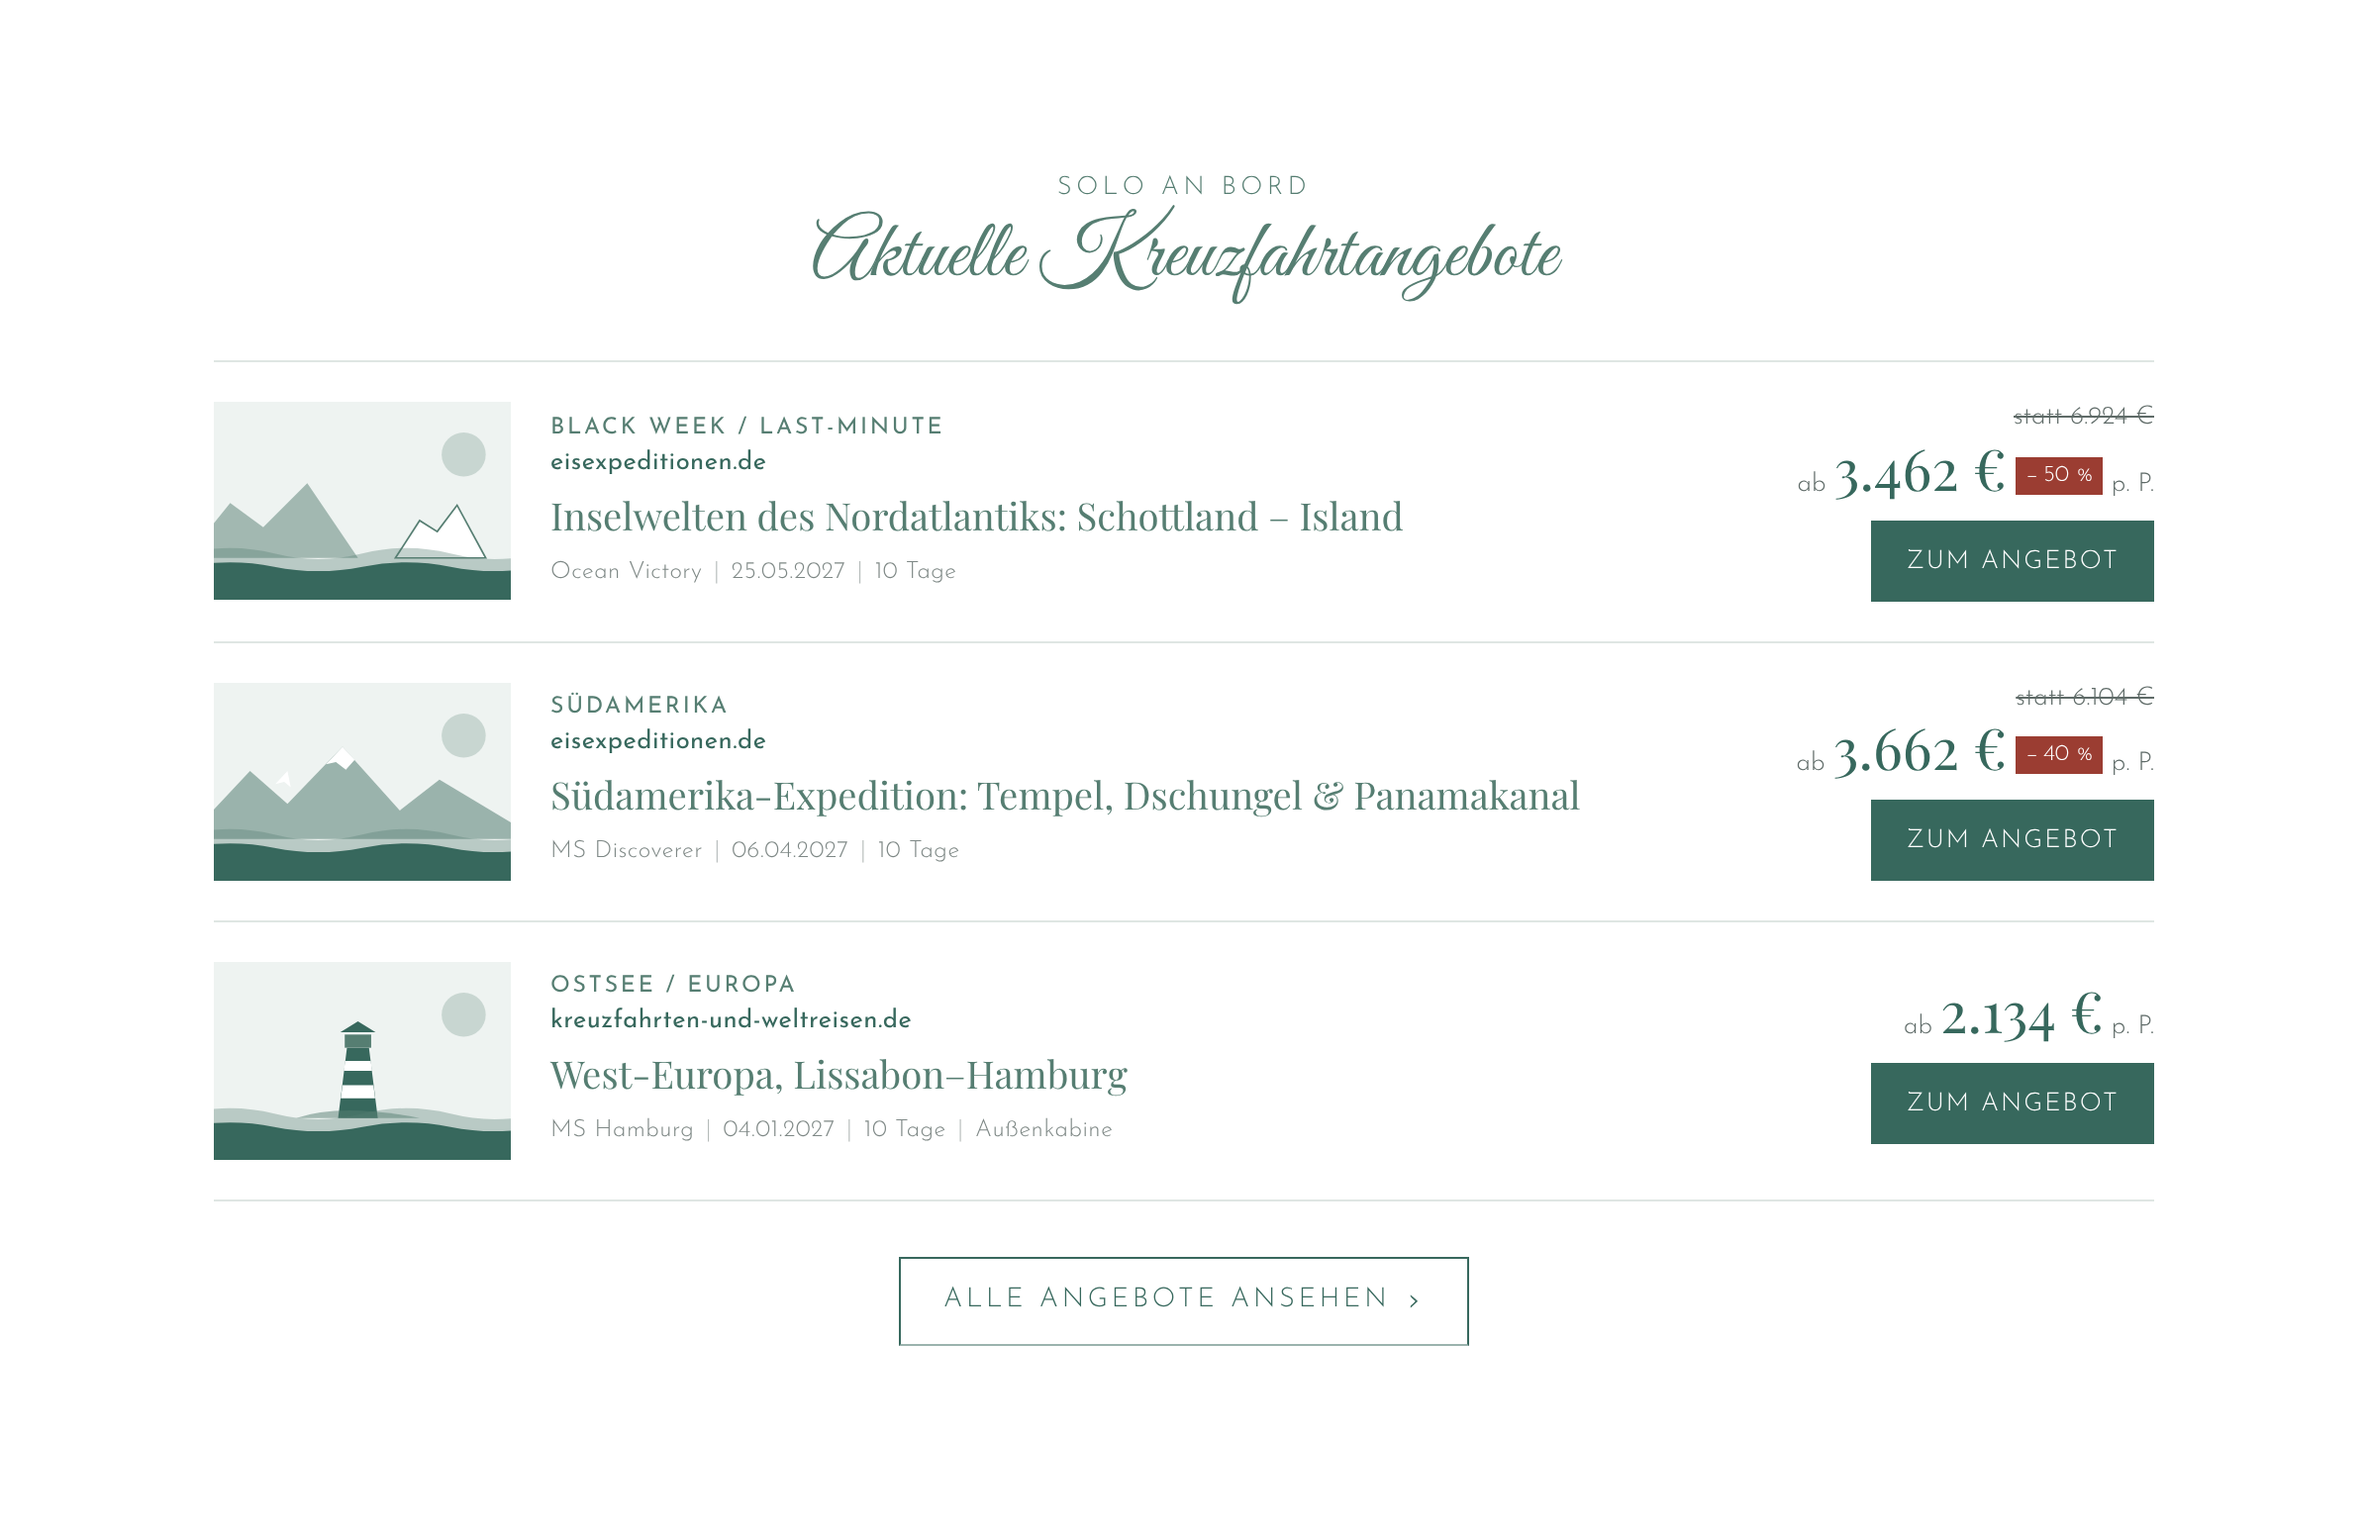
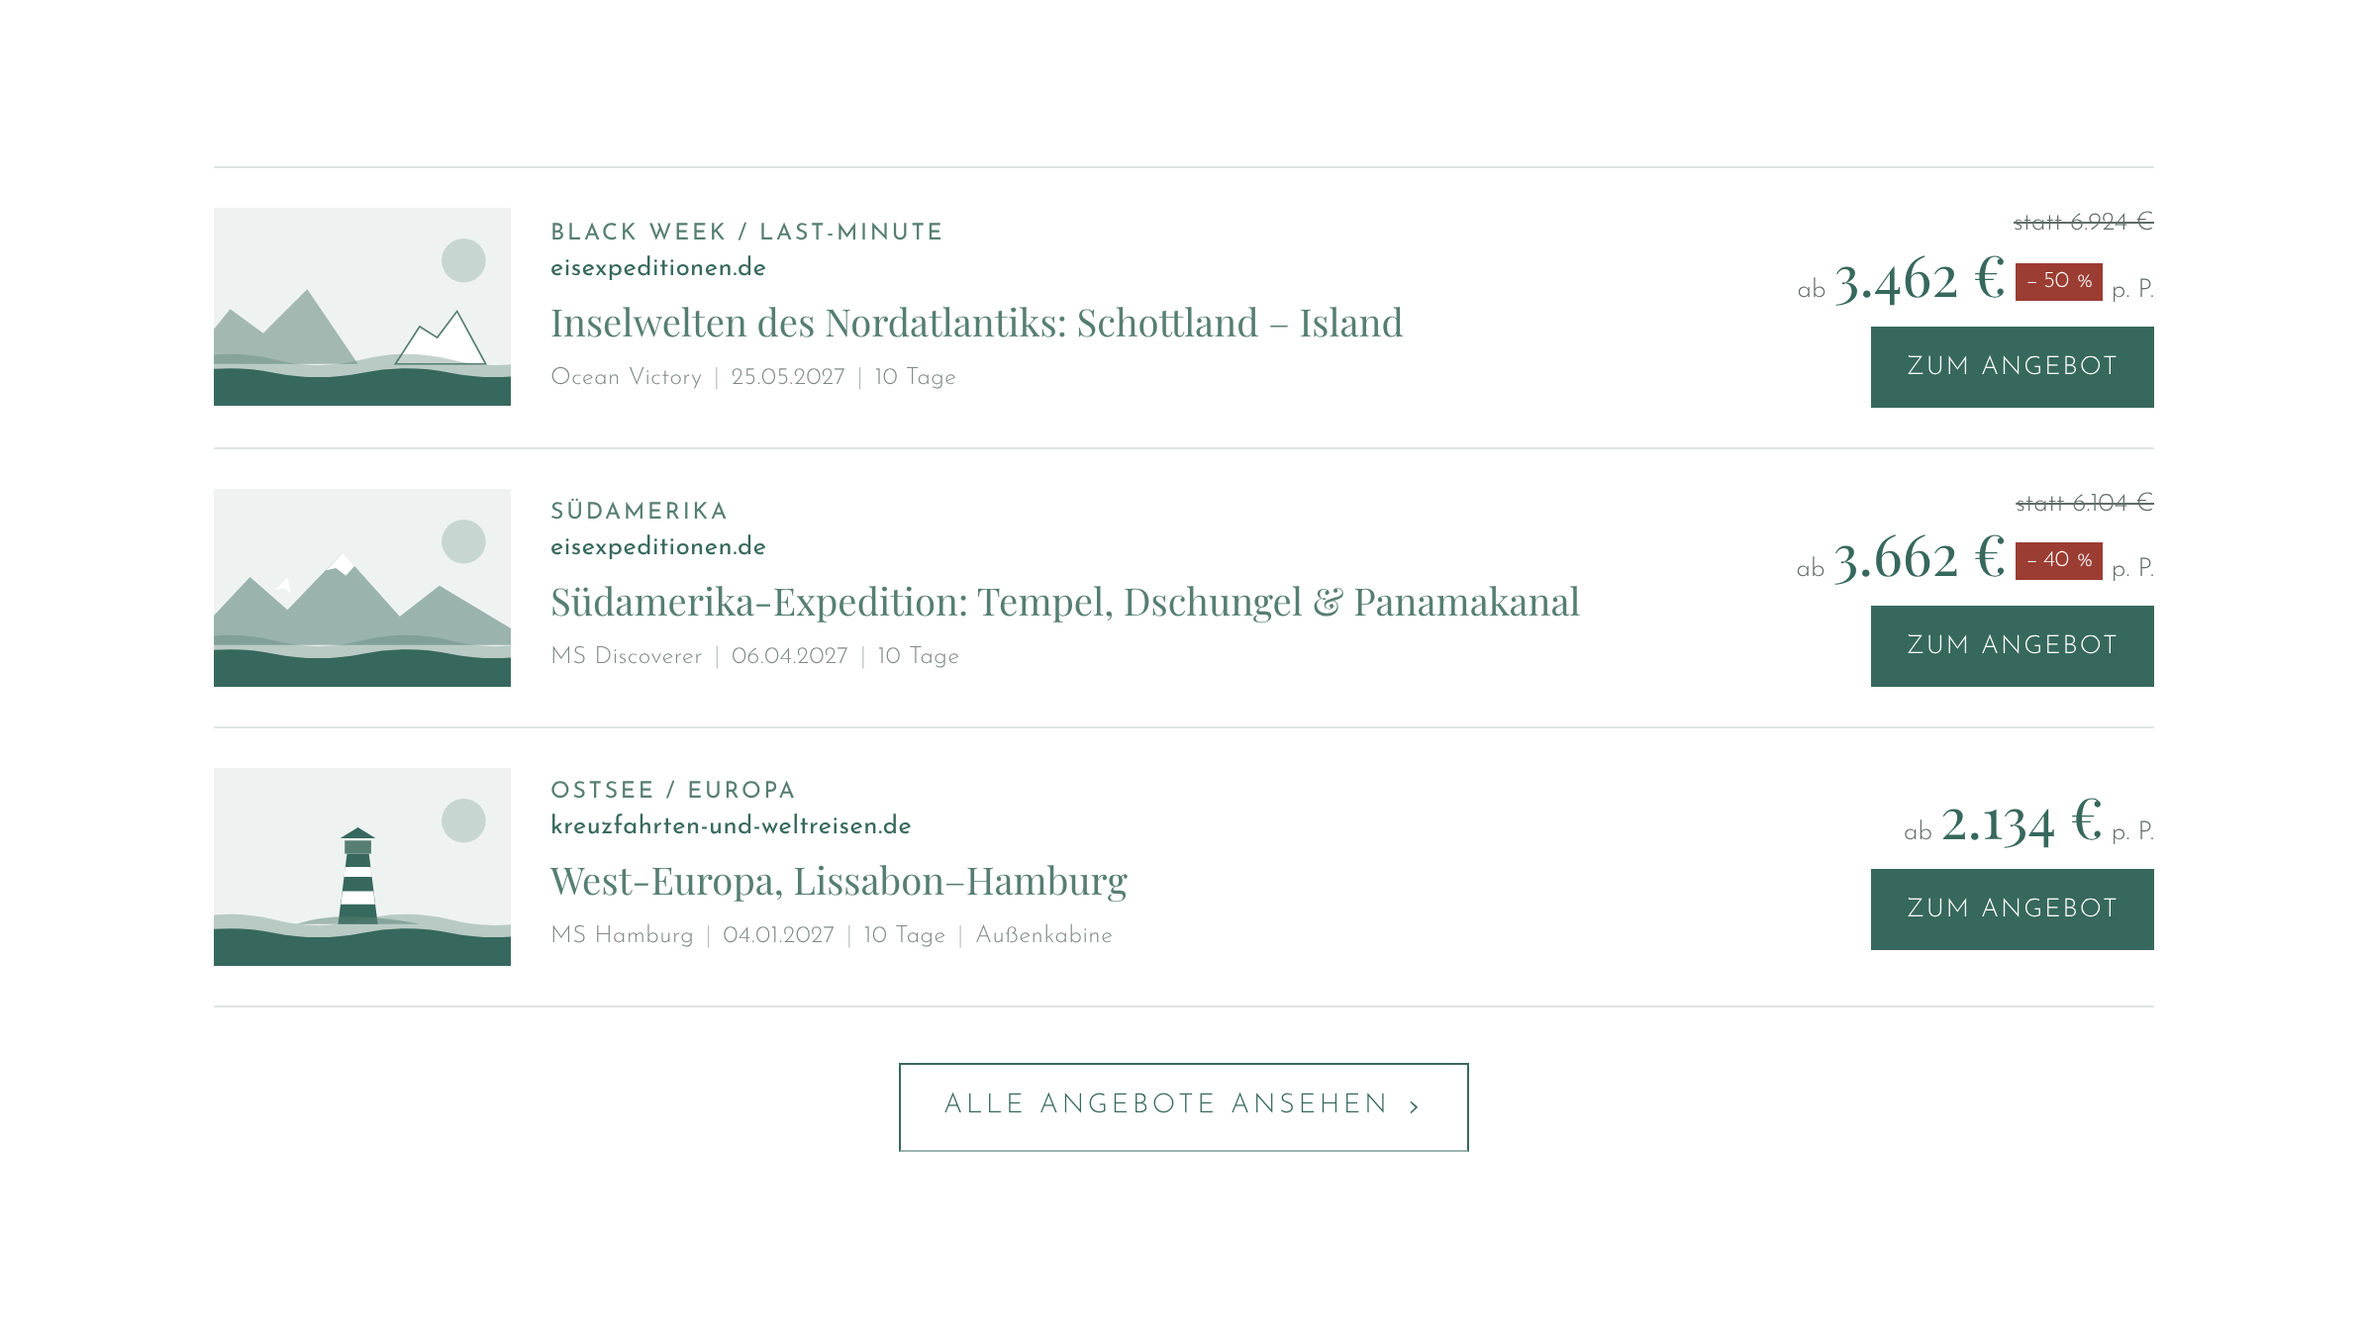
Startseiten-Teaser: Überschrift entfernt, wird in Pixpa gesetzt
Claude-Session: https://claude.ai/code/session_012YizkaaRLLKAJefRRsS6QJ

diff --git a/kreuzfahrt-widget.js b/kreuzfahrt-widget.js
@@ -126,8 +126,6 @@
     ".kfw-leer,.kfw-fehler{padding:1em;border:1px dashed var(--kfw-rand);color:var(--kfw-grau);background:#fff}" +
     // Startseiten-Teaser
     ".kfw-t-kopf{text-align:center;margin:0 0 1.75em}" +
-    ".kfw .kfw-t-kicker{font-size:.8em;text-transform:uppercase;letter-spacing:.18em;color:var(--kfw-gruen-hell);margin:0 0 .2em;text-align:inherit}" +
-    ".kfw .kfw-t-titel{font-family:'Great Vibes',cursive;font-weight:400;font-size:2.6em;line-height:1.15;color:var(--kfw-gruen-hell);margin:0;padding:0;text-align:inherit;letter-spacing:normal;text-transform:none}" +
     ".kfw .kfw-t-text{font-size:15px;line-height:1.6;margin:.8em auto 0;max-width:36em;text-align:inherit}" +
     ".kfw-t-mehr{text-align:center;margin-top:1.75em}" +
     ".kfw .kfw-mehr{display:inline-flex;align-items:center;gap:.6em;padding:.85em 1.6em;border:1px solid var(--kfw-gruen);color:var(--kfw-gruen)!important;background:transparent;" +
@@ -146,7 +144,7 @@
     ".kfw-t-liste{max-width:980px;margin:0 auto}" +
     ".kfw-t-buehne{display:grid;grid-template-columns:minmax(220px,1fr) 2.2fr;gap:2.5em;align-items:center;padding:2.5em;background:linear-gradient(135deg,var(--kfw-gruen),#5f8f84)}" +
     ".kfw .kfw-t-buehne .kfw-t-kopf{text-align:left;margin-bottom:1.5em}" +
-    ".kfw .kfw-t-buehne .kfw-t-kicker,.kfw .kfw-t-buehne .kfw-t-titel,.kfw .kfw-t-buehne .kfw-t-text{color:#fff}" +
+    ".kfw .kfw-t-buehne .kfw-t-text{color:#fff}" +
     ".kfw-t-buehne .kfw-t-mehr{text-align:left;margin:0}" +
     ".kfw .kfw-t-buehne .kfw-mehr{border-color:#fff;color:#fff!important}" +
     ".kfw .kfw-t-buehne .kfw-mehr:hover{background:#fff;color:var(--kfw-gruen)!important}" +
@@ -418,7 +416,7 @@
   // ---------- Startseiten-Teaser ----------
   // <div data-kreuzfahrt-widget data-max="3" data-layout="karten|buehne|liste"
   //      data-auswahl="rabatt|preis|abfahrt|solo" data-mehr-link="/cruise"
-  //      data-kicker="Solo an Bord" data-titel="Aktuelle Kreuzfahrtangebote"></div>
+  //      data-text="optionaler Begleittext"></div>
   var AUSWAHL = {
     rabatt: function (a, b) { return rabatt(b) - rabatt(a) || SORTIERUNG.preis(a, b); },
     preis: SORTIERUNG.preis,
@@ -443,12 +441,8 @@
 
     var mehr = sichererLink(root.getAttribute("data-mehr-link") || "") || root.getAttribute("data-mehr-link") || "/cruise";
     if (!/^(https?:\/\/|\/)/.test(mehr)) mehr = "/cruise";
-    var kopf =
-      '<div class="kfw-t-kopf">' +
-      '<div class="kfw-t-kicker">' + esc(root.getAttribute("data-kicker") || "Solo an Bord") + "</div>" +
-      '<h2 class="kfw-t-titel">' + esc(root.getAttribute("data-titel") || "Aktuelle Kreuzfahrtangebote") + "</h2>" +
-      (root.getAttribute("data-text") ? '<p class="kfw-t-text">' + esc(root.getAttribute("data-text")) + "</p>" : "") +
-      "</div>";
+    // Überschrift wird bewusst nicht erzeugt – sie wird im Seitenbaukasten (Pixpa) gesetzt.
+    var kopf = root.getAttribute("data-text") ? '<div class="kfw-t-kopf"><p class="kfw-t-text">' + esc(root.getAttribute("data-text")) + "</p></div>" : "";
     var knopf = '<div class="kfw-t-mehr"><a class="kfw-mehr" href="' + esc(mehr) + '">Alle Angebote ansehen</a></div>';
 
     root.classList.add("kfw-teaser", "kfw-layout-" + layout);

diff --git a/widget/kreuzfahrt-widget.js b/widget/kreuzfahrt-widget.js
@@ -126,8 +126,6 @@
     ".kfw-leer,.kfw-fehler{padding:1em;border:1px dashed var(--kfw-rand);color:var(--kfw-grau);background:#fff}" +
     // Startseiten-Teaser
     ".kfw-t-kopf{text-align:center;margin:0 0 1.75em}" +
-    ".kfw .kfw-t-kicker{font-size:.8em;text-transform:uppercase;letter-spacing:.18em;color:var(--kfw-gruen-hell);margin:0 0 .2em;text-align:inherit}" +
-    ".kfw .kfw-t-titel{font-family:'Great Vibes',cursive;font-weight:400;font-size:2.6em;line-height:1.15;color:var(--kfw-gruen-hell);margin:0;padding:0;text-align:inherit;letter-spacing:normal;text-transform:none}" +
     ".kfw .kfw-t-text{font-size:15px;line-height:1.6;margin:.8em auto 0;max-width:36em;text-align:inherit}" +
     ".kfw-t-mehr{text-align:center;margin-top:1.75em}" +
     ".kfw .kfw-mehr{display:inline-flex;align-items:center;gap:.6em;padding:.85em 1.6em;border:1px solid var(--kfw-gruen);color:var(--kfw-gruen)!important;background:transparent;" +
@@ -146,7 +144,7 @@
     ".kfw-t-liste{max-width:980px;margin:0 auto}" +
     ".kfw-t-buehne{display:grid;grid-template-columns:minmax(220px,1fr) 2.2fr;gap:2.5em;align-items:center;padding:2.5em;background:linear-gradient(135deg,var(--kfw-gruen),#5f8f84)}" +
     ".kfw .kfw-t-buehne .kfw-t-kopf{text-align:left;margin-bottom:1.5em}" +
-    ".kfw .kfw-t-buehne .kfw-t-kicker,.kfw .kfw-t-buehne .kfw-t-titel,.kfw .kfw-t-buehne .kfw-t-text{color:#fff}" +
+    ".kfw .kfw-t-buehne .kfw-t-text{color:#fff}" +
     ".kfw-t-buehne .kfw-t-mehr{text-align:left;margin:0}" +
     ".kfw .kfw-t-buehne .kfw-mehr{border-color:#fff;color:#fff!important}" +
     ".kfw .kfw-t-buehne .kfw-mehr:hover{background:#fff;color:var(--kfw-gruen)!important}" +
@@ -418,7 +416,7 @@
   // ---------- Startseiten-Teaser ----------
   // <div data-kreuzfahrt-widget data-max="3" data-layout="karten|buehne|liste"
   //      data-auswahl="rabatt|preis|abfahrt|solo" data-mehr-link="/cruise"
-  //      data-kicker="Solo an Bord" data-titel="Aktuelle Kreuzfahrtangebote"></div>
+  //      data-text="optionaler Begleittext"></div>
   var AUSWAHL = {
     rabatt: function (a, b) { return rabatt(b) - rabatt(a) || SORTIERUNG.preis(a, b); },
     preis: SORTIERUNG.preis,
@@ -443,12 +441,8 @@
 
     var mehr = sichererLink(root.getAttribute("data-mehr-link") || "") || root.getAttribute("data-mehr-link") || "/cruise";
     if (!/^(https?:\/\/|\/)/.test(mehr)) mehr = "/cruise";
-    var kopf =
-      '<div class="kfw-t-kopf">' +
-      '<div class="kfw-t-kicker">' + esc(root.getAttribute("data-kicker") || "Solo an Bord") + "</div>" +
-      '<h2 class="kfw-t-titel">' + esc(root.getAttribute("data-titel") || "Aktuelle Kreuzfahrtangebote") + "</h2>" +
-      (root.getAttribute("data-text") ? '<p class="kfw-t-text">' + esc(root.getAttribute("data-text")) + "</p>" : "") +
-      "</div>";
+    // Überschrift wird bewusst nicht erzeugt – sie wird im Seitenbaukasten (Pixpa) gesetzt.
+    var kopf = root.getAttribute("data-text") ? '<div class="kfw-t-kopf"><p class="kfw-t-text">' + esc(root.getAttribute("data-text")) + "</p></div>" : "";
     var knopf = '<div class="kfw-t-mehr"><a class="kfw-mehr" href="' + esc(mehr) + '">Alle Angebote ansehen</a></div>';
 
     root.classList.add("kfw-teaser", "kfw-layout-" + layout);

diff --git a/widget/README.md b/widget/README.md
@@ -57,9 +57,7 @@ Farben anpassen: in der CSS-Variablen `--kfw-akzent` (Standard `#0b6e8a`).
 | `data-max` | Anzahl der Angebote (schaltet den Teaser ein) | – |
 | `data-layout` | `liste`, `karten` oder `buehne` | `liste` |
 | `data-auswahl` | `rabatt`, `preis`, `abfahrt` oder `solo` | `rabatt` |
-| `data-kicker` | kleine Zeile über der Überschrift | Solo an Bord |
-| `data-titel` | Überschrift (Schreibschrift) | Aktuelle Kreuzfahrtangebote |
 | `data-text` | optionaler Begleittext | – |
 | `data-mehr-link` | Ziel des Knopfs „Alle Angebote ansehen“ | `/cruise` |
 
-Angebote mit vergangenem Abfahrtsdatum werden nicht angezeigt.
+Angebote mit vergangenem Abfahrtsdatum werden nicht angezeigt. Eine Überschrift erzeugt der Teaser nicht, sie wird in Pixpa über dem Block gesetzt.
